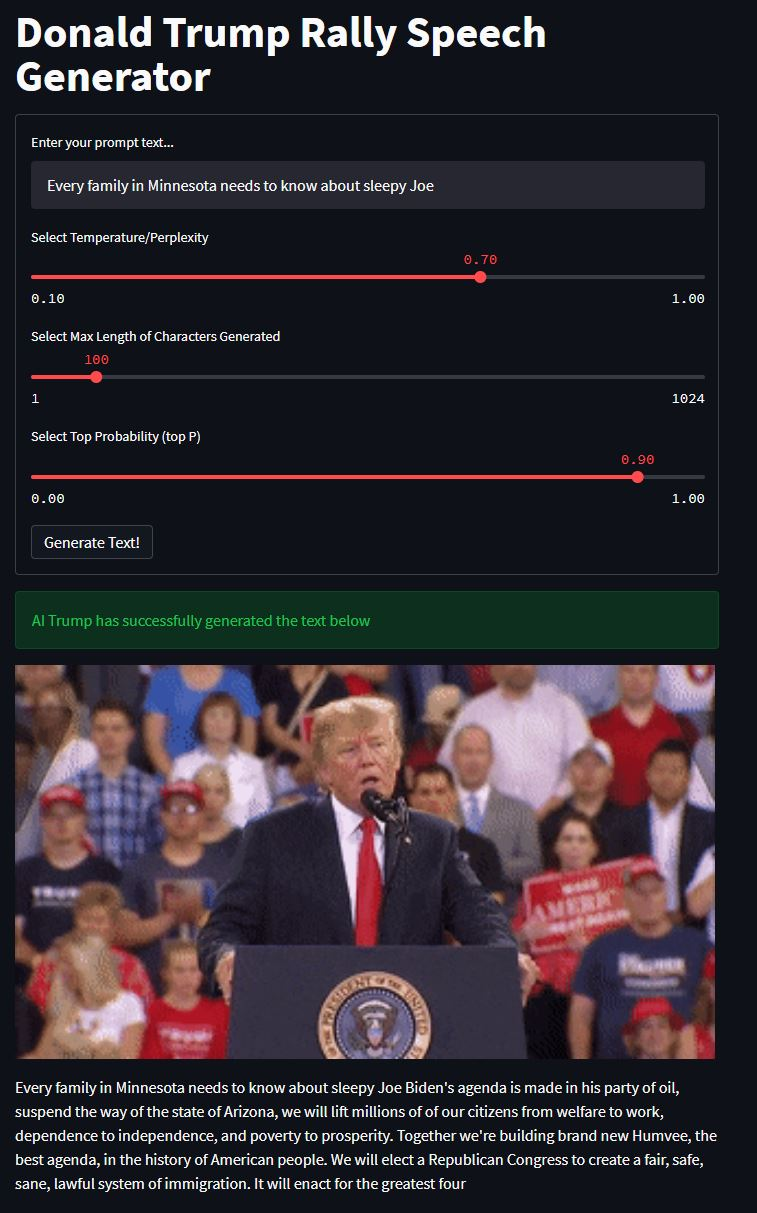
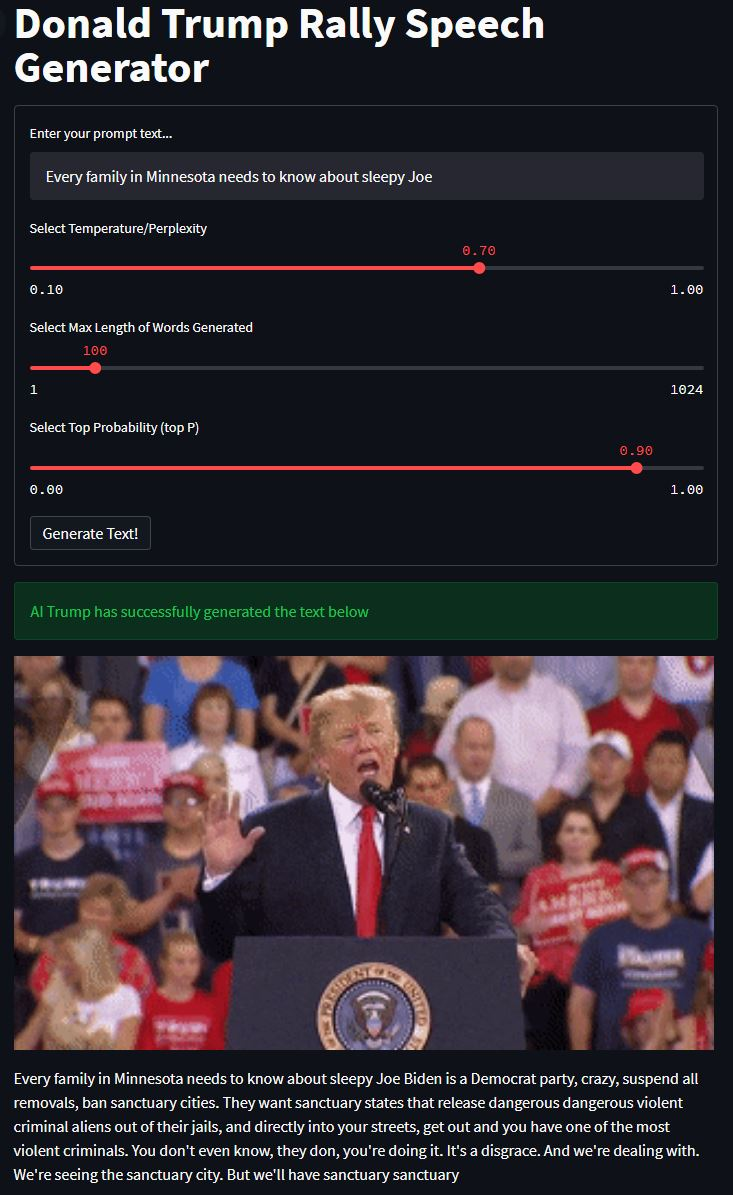
update words function

Changed region(s): [[0.0, 0.4644, 0.9905, 0.9908], [0.0, 0.0, 0.9604, 0.4644], [0.8704, 0.2787, 0.9604, 0.3406]]

diff --git a/app.py b/app.py
@@ -12,7 +12,7 @@ ai = aitextgen(model_folder="gpt2_weights_trump_rally_speech")
 with st.form(key='my_form'):
     prompt_text = st.text_input(label = "Enter your prompt text...",value = "Every family in Minnesota needs to know about sleepy Joe")
     temp = st.slider('Select Temperature/Perplexity',min_value = 0.1, max_value = 1.0, step = 0.1, value =0.7)
-    max_length = st.slider('Select Max Length of Characters Generated',min_value = 1, max_value = 1024, step = 10, value =100)
+    max_length = st.slider('Select Max Length of Words Generated',min_value = 1, max_value = 1024, step = 10, value =100)
     top_p = st.slider('Select Top Probability (top P)',min_value = 0.0, max_value = 1.0, step = 0.1, value =0.9)
     submit_button = st.form_submit_button(label='Generate Text!')
 
